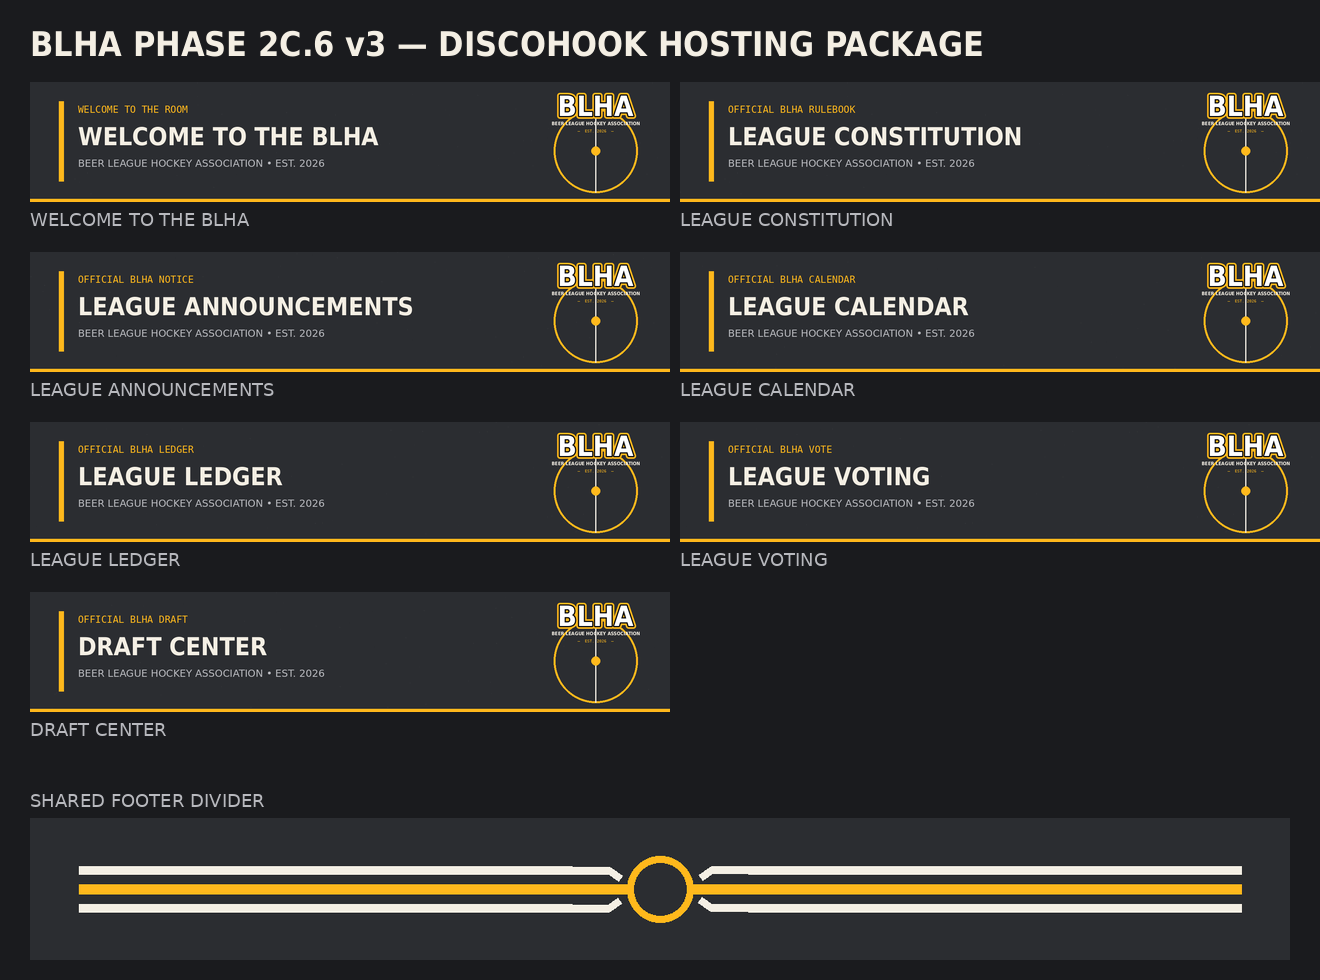
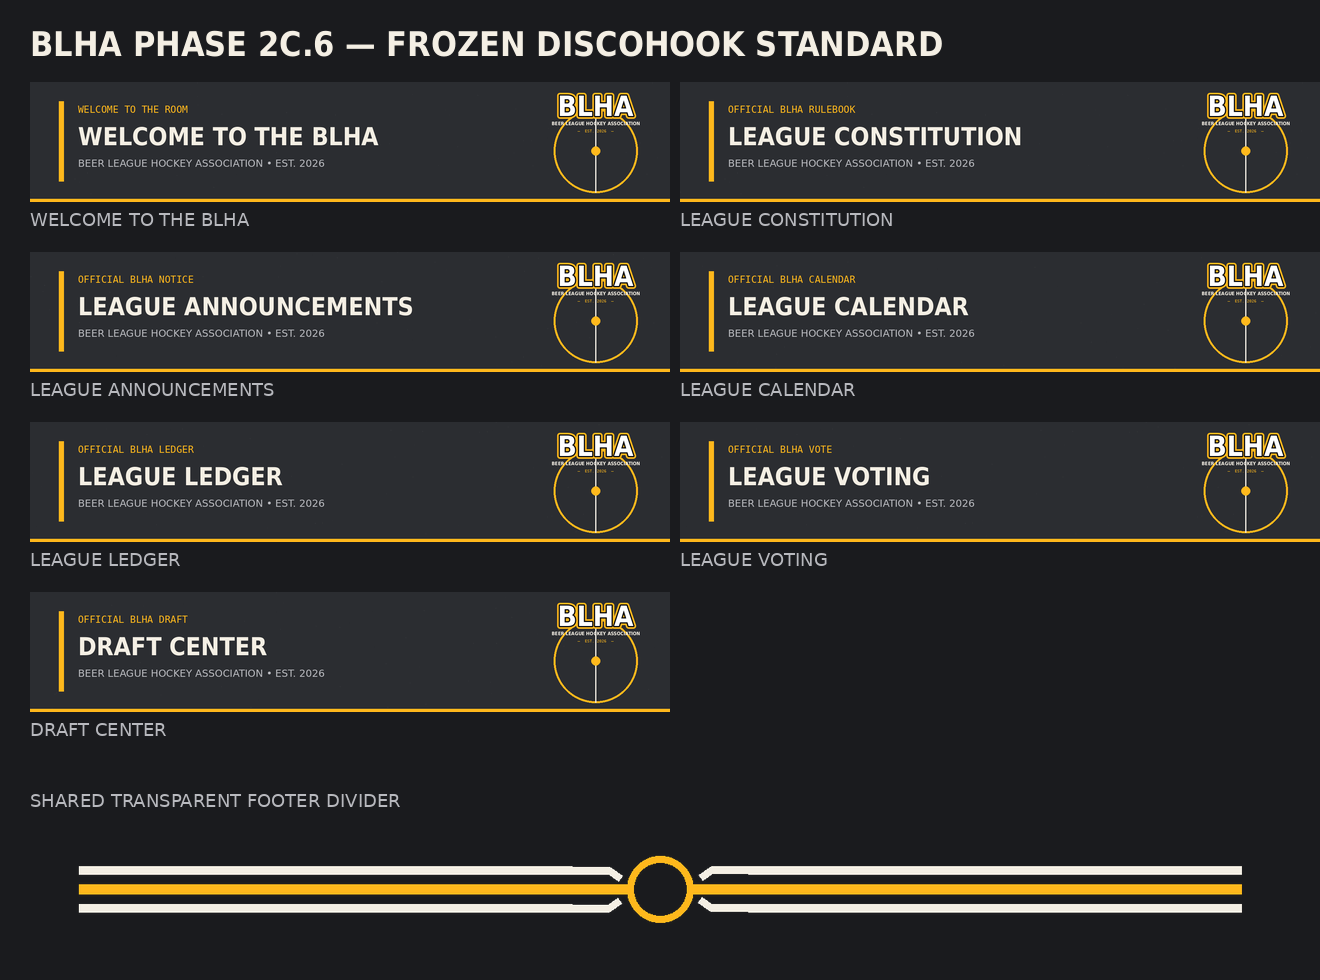
assets(discord): publish unified Phase 2C.6 hosting package

Changed region(s): [[0.2485, 0.0306, 0.7455, 0.0612], [0.0932, 0.7959, 0.3106, 0.8265]]

diff --git a/discord/webhooks/README.md b/discord/webhooks/README.md
@@ -1,11 +1,14 @@
-# BLHA Phase 2C.6 v3 — Discohook Asset Hosting
+# BLHA Phase 2C.6 — Frozen Discohook Standard
 
 Canonical hosted graphics for BLHA Discohook messages.
 
 - Headers: 1600x300
 - Header embed side color: #2B2D31
-- Footer: 1600x180 (legacy filename retained)
+- Footer: transparent 1600x180 PNG (legacy filename retained)
 - Gold: #FFB81C
 - Cream: #F4EFE4
 - Right-side rink circle is fully inset.
 - BLHA lettering is white with black/gold keylines and no white logo card.
+- All manual Discohook JSON templates are normalized by tools/normalize_discohook_templates.py.
+
+This Phase 2C.6 visual format is frozen. Future content may change; the layout standard should not change without an explicit design revision.
